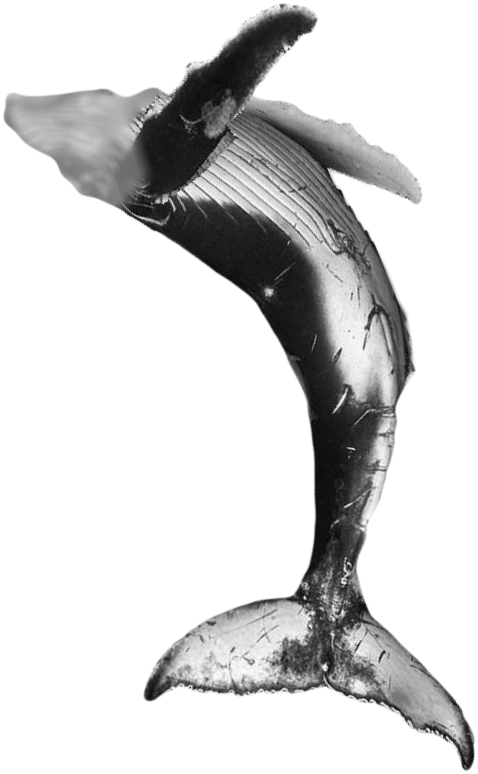
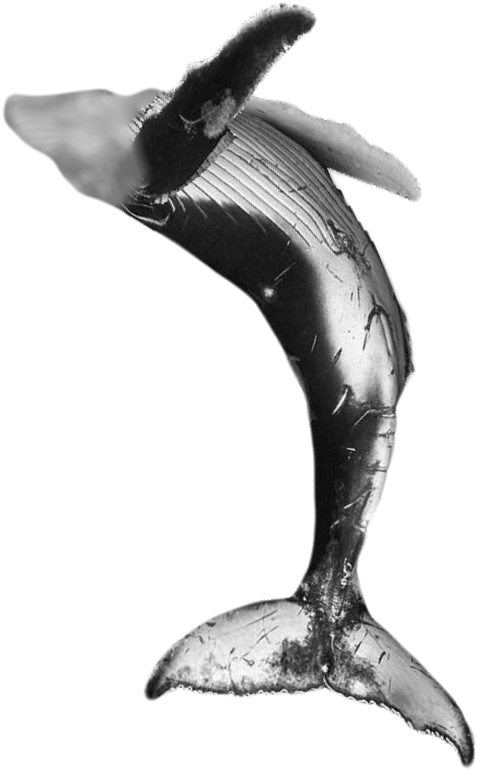
The whale's outline as one smooth line: a smoother cutout edge and a dotted contour along it (head, flippers, the body's right side).
(cherry picked from commit 20b74ea010b76630f1c938bc4c57f052cf44c184)

diff --git a/apps/web/src/components/copy/DotWhale.tsx b/apps/web/src/components/copy/DotWhale.tsx
@@ -30,8 +30,8 @@ import toneUrl from './whale-tone.png?inline';
 
 /** The tone map's size, and its row on the surface; the box adds a little room either side. */
 const TW = 478;
-const TH = 774;
-const WATERLINE = 356;
+const TH = 770;
+const WATERLINE = 354;
 const PAD = 44;
 const W = TW + PAD * 2;
 /** The band below the surface over which sharp turns to under water (CSS px). */
@@ -96,8 +96,9 @@ function samp(f: Float32Array, x: number, y: number): number {
 /**
  * The stipple: dots dropped where the whale is, kept more often where it is light -
  * the dark skin (the raised flipper) still dotted, so it reads as skin, not a hole -
- * and dense along the outline whatever the skin there, so the silhouette reads as a
- * smooth line even where the whale is dark.
+ * inside the whale's outline; and the outline itself drawn as a dotted contour, a
+ * dot on every pixel of the edge, so the silhouette is one smooth line (owner,
+ * 2026-10-26) whatever the skin there.
  */
 function stipple(t: Tone, count: number): Dot[] {
   const dots: Dot[] = [];
@@ -106,12 +107,21 @@ function stipple(t: Tone, count: number): Dot[] {
     tries++;
     const x = Math.random() * TW;
     const y = Math.random() * TH;
-    const edge = samp(t.a, x, y);
-    if (edge < 0.04) continue;
-    let v = 0.16 + 0.84 * Math.pow(samp(t.l, x, y), 1.5);
-    if (edge < 0.92) v = Math.max(v, 0.62);
-    if (Math.random() > v * sm(0.1, 0.5, edge)) continue;
+    if (samp(t.a, x, y) < 0.55) continue;
+    const v = 0.16 + 0.84 * Math.pow(samp(t.l, x, y), 1.5);
+    if (Math.random() > v) continue;
     dots.push({ x, y, r: 0.4 + Math.random() * 0.45 * (0.5 + v), a: 0.3 + 0.7 * v, ph: Math.random() * Math.PI * 2, sp: 0.6 + Math.random() * 1.4, dx: 0, dy: 0 });
+  }
+  // The outline: a dot on each pixel where the whale meets the dark, just inside the edge.
+  const at = (x: number, y: number) => t.a[y * TW + x]!;
+  for (let y = 1; y < TH - 1; y++) {
+    for (let x = 1; x < TW - 1; x++) {
+      if (at(x, y) < 0.5) continue;
+      if (at(x - 1, y) >= 0.5 && at(x + 1, y) >= 0.5 && at(x, y - 1) >= 0.5 && at(x, y + 1) >= 0.5) continue;
+      if (Math.random() > 0.85) continue;
+      const v = 0.55 + 0.45 * t.l[y * TW + x]!;
+      dots.push({ x: x + 0.5 + (Math.random() - 0.5) * 0.4, y: y + 0.5 + (Math.random() - 0.5) * 0.4, r: 0.45 + Math.random() * 0.2, a: 0.5 + 0.4 * v, ph: Math.random() * Math.PI * 2, sp: 0.6 + Math.random() * 1.4, dx: 0, dy: 0 });
+    }
   }
   return dots;
 }
